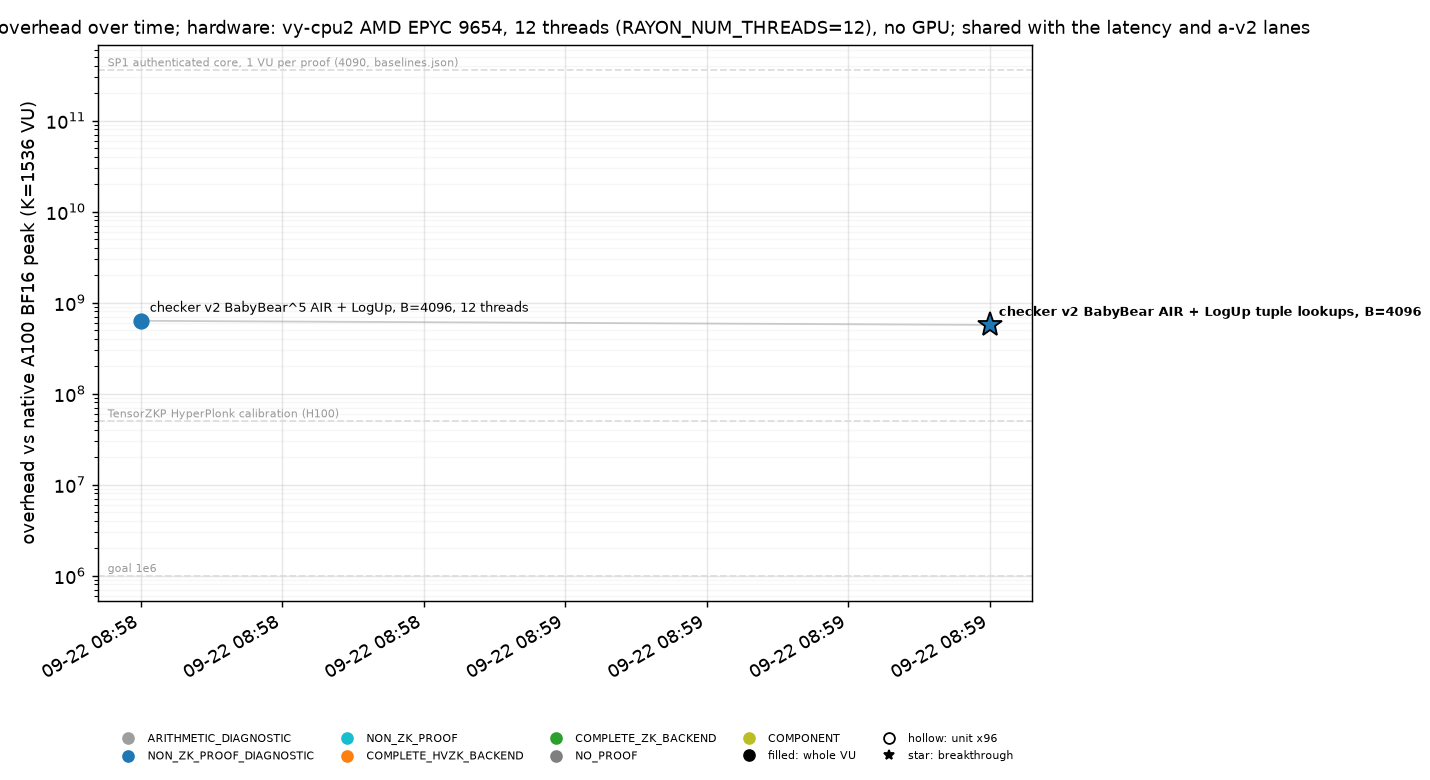
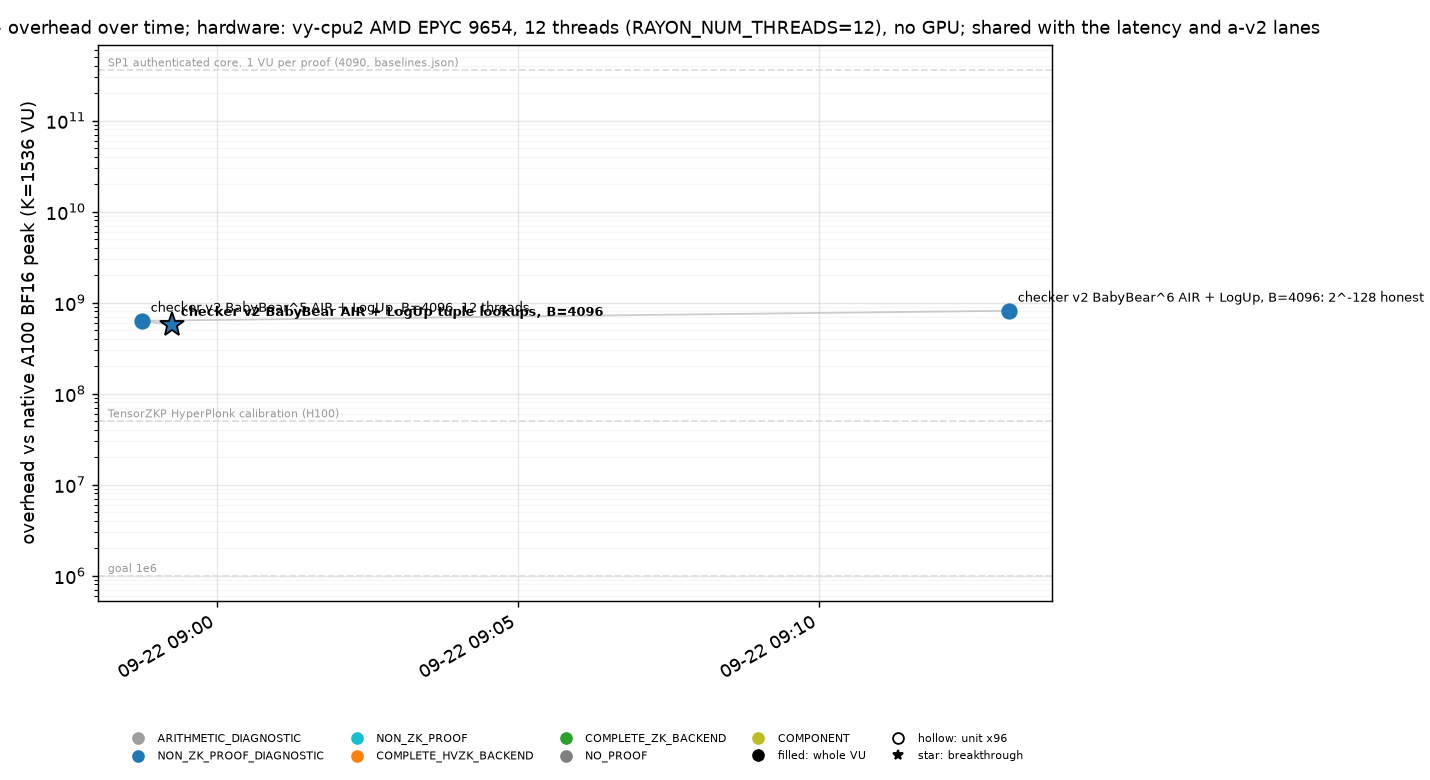
b-air-v2: BabyBear^6 gate (r20260922-090904-cd75): 32.8 s, 463 cols, 177.8 kB/VU, honest label 2^-128.6 (FRI binds; lookup 2^-156.7) -- 1.83x faster / 1.86x smaller than v1+LogUp at 2^-93.8; ledger, plots, PROTOCOL 15.4/15.5/15.7, README

diff --git a/backends/direct/PROTOCOL.md b/backends/direct/PROTOCOL.md
@@ -841,26 +841,27 @@ because every factor is a residue of an integer in \([0, 780)\) bound by ALIGN4/
 ### 15.4 Measurement (vy-cpu2, 12 threads, shared; \(B = 4096\), \(K = 1536\), 100 FRI queries, PoW 16)
 
 Runs `r20260922-085312-82a9` (BabyBear\(^4\), 166 queries), `r20260922-085547-05cc` (BabyBear\(^5\), 166 queries),
+`r20260922-090904-cd75` (BabyBear\(^6\), 166 queries),
 `r20260922-084854-d988` / `r20260922-085143-6e87` (the same at 100 queries: 22.88 s / 25.44 s, proofs 1.18 / 1.20 MB,
 FRI \(2^{-83.8}\) proven); `results/vu_v2_*.json`.  \(2^{19}\) rows (393 216 real), `log_blowup` 2, Keccak Merkle,
 authentication excluded, `NON_ZK_PROOF_DIAGNOSTIC`; the pod was shared (load average \(\approx 30\) on 32 vCPUs), so
 every time is an upper bound.  The v1 + LogUp columns are section 14.5's (same queries, same pod, same threads).
 
-| | v1 + LogUp, BabyBear\(^4\) | v1 + LogUp, BabyBear\(^5\) | **v2, BabyBear\(^4\)** | **v2, BabyBear\(^5\)** |
-|---|---|---|---|---|
-| committed width | 863 | 977 | **405** | **453** |
-| committed bytes / VU | 331 kB | 375 kB | **155.5 kB** (2.13x less) | **174 kB** (2.16x less) |
-| witness s | 5.4 | 5.9 | **2.37** | 2.38 |
-| prove s | 54.7 | 64.5 | **20.55** | 23.05 |
-| total s | 60.1 | 70.4 | **22.92** | 25.43 |
-| s / VU | 0.0147 | 0.0172 | **0.00560** (2.62x) | 0.00621 (2.77x) |
-| overhead vs native peak | 1.49e9 | 1.75e9 | **5.68e8** | 6.31e8 |
-| verify s | 0.44 | 0.51 | 0.455 | 0.557 |
-| proof MB | 2.27 | 2.37 | 1.95 | 1.99 |
-| sequential depth (rounds) | 26 | 26 | 26 | 26 |
-| peak RSS GB | 9.5 | 10.7 | **4.85** | 5.16 |
-| stages: commit_pre / main / aux_build / aux / quotient / commit_q / open s | 0.31 / 5.46 / 0.56 / 5.87 / 37.07 / 0.58 / 4.08 | 0.33 / 5.35 / 0.66 / 7.35 / 43.98 / 0.70 / 5.27 | 0.36 / 3.87 / 0.18 / 1.76 / **10.76** / 0.57 / 2.60 | 0.38 / 4.03 / 0.23 / 2.20 / 11.46 / 0.67 / 3.72 |
-| soundness: FRI / lookup term | \(2^{-128.6}\) / \(2^{-93.8}\) | \(2^{-128.6}\) / \(2^{-124.8}\) | \(2^{-128.6}\) / **\(2^{-94.9}\)** | \(2^{-128.6}\) / **\(2^{-125.8}\)** |
+| | v1 + LogUp, BabyBear\(^4\) | v1 + LogUp, BabyBear\(^5\) | **v2, BabyBear\(^4\)** | **v2, BabyBear\(^5\)** | **v2, BabyBear\(^6\)** (15.5) |
+|---|---|---|---|---|---|
+| committed width | 863 | 977 | **405** | **453** | 463 |
+| committed bytes / VU | 331 kB | 375 kB | **155.5 kB** (2.13x less) | **174 kB** (2.16x less) | 177.8 kB (1.86x less) |
+| witness s | 5.4 | 5.9 | **2.37** | 2.38 | 2.39 |
+| prove s | 54.7 | 64.5 | **20.55** | 23.05 | 30.41 |
+| total s | 60.1 | 70.4 | **22.92** | 25.43 | 32.80 |
+| s / VU | 0.0147 | 0.0172 | **0.00560** (2.62x) | 0.00621 (2.77x) | 0.00801 (1.83x) |
+| overhead vs native peak | 1.49e9 | 1.75e9 | **5.68e8** | 6.31e8 | 8.13e8 |
+| verify s | 0.44 | 0.51 | 0.455 | 0.557 | 0.731 |
+| proof MB | 2.27 | 2.37 | 1.95 | 1.99 | 2.03 |
+| sequential depth (rounds) | 26 | 26 | 26 | 26 | 26 |
+| peak RSS GB | 9.5 | 10.7 | **4.85** | 5.16 | 5.47 |
+| stages: commit_pre / main / aux_build / aux / quotient / commit_q / open s | 0.31 / 5.46 / 0.56 / 5.87 / 37.07 / 0.58 / 4.08 | 0.33 / 5.35 / 0.66 / 7.35 / 43.98 / 0.70 / 5.27 | 0.36 / 3.87 / 0.18 / 1.76 / **10.76** / 0.57 / 2.60 | 0.38 / 4.03 / 0.23 / 2.20 / 11.46 / 0.67 / 3.72 | 0.37 / 4.07 / 0.33 / 2.47 / 15.19 / 0.76 / 6.68 |
+| soundness: FRI / lookup term | \(2^{-128.6}\) / \(2^{-93.8}\) | \(2^{-128.6}\) / \(2^{-124.8}\) | \(2^{-128.6}\) / **\(2^{-94.9}\)** | \(2^{-128.6}\) / **\(2^{-125.8}\)** | **\(2^{-128.6}\)** / \(2^{-156.7}\) |
 
 Both breakthrough criteria are met (s/VU 2.62x better than 0.0147, > 1.5x; committed bytes/VU 2.13x under 331 kB,
 > 2x).  Where the time went: the quotient pass fell 3.4x (37.1 to 10.8 s: 88 program constraints instead of 402,
@@ -885,7 +886,18 @@ The honest label of a v2 proof is the minimum of the two: **\(2^{-94.9}\) at Bab
 instead).  \(2^{-128}\) needs BabyBear\(^6\)
 (not in Plonky3 0.4.3) *and* 166 queries; BabyBear\(^5\) at 166 queries gives \(2^{-125.8}\) -- the same conclusion as
 section 14.2; with 3.7x fewer lookups the v2 term is 1.5 bits better at each degree, not enough to change it.
-BabyBear\(^6\) was not implemented in this lane (section 15.6).
+**BabyBear\(^6\) is implemented** (the brief's item 6): Plonky3 0.4.3 has binomial extensions of BabyBear of degree
+4 and 5 only, so `vendor/p3-baby-bear` is the registry crate (`[patch.crates-io]`) plus `BinomiallyExtendable<6>` /
+`HasTwoAdicBionmialExtension<6>` over \(X^6 - 22\): 22 is neither a square nor a cube mod \(p\) (the irreducibility
+criterion for \(X^6 - w\) when \(4 \nmid 6\)), \(X^{p^k} \ne X\) for \(k = 1, 2, 3\); the multiplicative generator
+\(6 + X\) has order \(p^6 - 1 = 2^{28} \cdot 3^2 \cdot 5 \cdot 7^3 \cdot 13 \cdot 31 \cdot 1171 \cdot 7459 \cdot 103237
+\cdot 345769 \cdot 32472031 \cdot 3939008426310247\) (checked against every prime factor); 2-adicity 28 with the
+sparse generator \(22^7 X^3\).  `tests/air_v2.rs::babybear6_field` checks the axioms, inverses, \(x^{p^6} = x\) (and
+\(\ne\) for smaller powers), the orders.  `BabyBear6Backend`, `vu-bench --v2 --ext 6`: **32.80 s, 463 committed
+columns, 177.8 kB/VU, label \(2^{-128.6}\)** (FRI binds; lookup \(2^{-156.7}\)) -- the first honest \(2^{-128}\) of
+the B AIR at \(2^{19}\) rows, 1.83x faster and 1.86x smaller than v1 + LogUp at its \(2^{-93.8}\).  The 43% over
+v2\(^4\) is the generic degree-6 extension multiplication (`BinomialExtensionField` specialises D = 2, 3 only):
+quotient 15.2 vs 10.8 s, `open` 6.7 vs 2.6 s -- a Karatsuba/Toom sextic multiplication would recover most of it.
 
 Statement binding (red-team F1-F3): `absorb_header` puts the domain tag, the AIR id (hash of field, layout and
 constraint names), \(B\), \(K\), 96, `degree_bits`, the FRI parameters and every claimed word (and the operands when
@@ -916,12 +928,10 @@ recomputation in the verifier, the \(2^{19}\)-row floor -- are the items below.
 
 ### 15.7 Open
 
-* **BabyBear\(^6\)** (the brief's item 6): not done.  Plonky3 0.4.3's `BinomialExtensionField<BabyBear, D>` is
-  implemented for D = 4, 5 only; a degree-6 extension needs a `BinomiallyExtendable<6>` impl (irreducible
-  \(X^6 - w\); `backends/gkr/src/field.rs` has a hand-rolled BabyBear\(^6\) with its polynomial) plus the
-  `TwoAdicField`/`HasFrobenius` plumbing uni-stark's challenger and PCS need.  Expected cost from the \(^4 \to ^5\)
-  step: aux width 174, quotient +7%, \(\approx 28\) s total, label \(2^{-128.6}\) (FRI) -- the first honest
-  \(2^{-128}\) at \(2^{19}\) rows.
+* **BabyBear\(^6\) multiplication**: the vendored extension uses Plonky3's generic \(D\)-loop product; the 43%
+  over \(^4\) (section 15.5) is mostly that.  A specialised sextic product (Karatsuba over the cubic split, or
+  Toom-3) in the vendored crate is the obvious next 20%.  The vendored crate is a patch of 0.4.3-succinct only;
+  upstream Plonky3 gained more extension degrees later and the patch should be dropped when the crate is bumped.
 * **Operand authentication**: `--bind-operands` absorbs the operand arrays into the header and checks the 32 operand
   columns at \(\zeta\); it was implemented and is exercised by `vu-bench --v2 --bind-operands` but not measured
   in the table (the verifier's statement polynomial then has \(32 \times 2^{19}\) coefficients: a hash-chain

diff --git a/backends/direct/README.md b/backends/direct/README.md
@@ -44,6 +44,8 @@ PCS of `PROTOCOL.md`: it is the fastest complete non-ZK proof of the *right* con
   `vu-honest`, `vu-bench`, `check-rows` (`--ext 5` for BabyBear^5); `run_v2.sh` is the pod script;
   `tests/air_v2.rs` the tests (exhaustive evaluation of every constraint on the honest committed trace, mutations,
   the pod-sized statement-bound round trip); `tools/battery_adapter.py --v2` the battery translated to v2.
+- `vendor/p3-baby-bear`: Plonky3 0.4.3's crate with BabyBear^6 added (`BinomiallyExtendable<6>` over X^6 - 22,
+  PROTOCOL.md 15.5; `[patch.crates-io]` in `Cargo.toml`); `BabyBear6Backend`, `--ext 6`.
 - `run_vu.sh`: the pod script (build, `cargo test`, `chain-layout`, `vu-neg`, battery, `vu-bench`);
   `run_lookup.sh`: the same for the LogUp realisation (`tests/lookup.rs` incl. the 2^17-row round trip, battery
   `--lookup`, `vu-bench --lookup`).
@@ -132,6 +134,7 @@ r20260922-055326-699d (Goldilocks), r20260922-055900-f53a (BabyBear), r20260922-
 | BabyBear, 166 queries (2^-128 proven) | r20260922-060503-6847 | 2,900 | 21.22 | 146.90 | **168.12** | **0.0410** | 0.425 | 3,453,676 | 24 | 30.6 GB | 1.11 MB | 128.6 / 348 |
 | BabyBear, **checker v2** + LogUp tuple lookups, BabyBear^4, 166 queries (`vu-bench --v2`, PROTOCOL.md 15) | r20260922-085312-82a9 | 281 main + 116 aux + 8 pre = **405** | 2.37 | 20.55 | **22.92** | **0.00560** | 0.455 | 1,948,324 | 26 | 4.85 GB | 38,880 cells, **155.5 kB** | 128.6 / 348; lookup term **2^-94.9** |
 | BabyBear, checker v2 + LogUp, BabyBear^5, 166 queries (`--ext 5`) | r20260922-085547-05cc | 281 + 145 + 8 = 453 | 2.38 | 23.05 | 25.43 | 0.00621 | 0.557 | 1,987,400 | 26 | 5.16 GB | 43,488 cells, 174 kB | 128.6 / 348; lookup term 2^-125.8 |
+| BabyBear, checker v2 + LogUp, **BabyBear^6** (`--ext 6`, vendored extension), 166 queries: **honest 2^-128.6** | r20260922-090904-cd75 | 281 + 174 + 8 = 463 | 2.39 | 30.41 | 32.80 | 0.00801 | 0.731 | 2,026,972 | 26 | 5.47 GB | 44,448 cells, 177.8 kB | **128.6** / 348; lookup term 2^-156.7 |
 
 Trace: 2^19 rows (393,216 real + zero-VU padding) x width. `overhead.vs_native_peak` (t.total / 4096 over 9.85 ps):
 **4.53e9** (Goldilocks), **4.24e9** (BabyBear). Ledger: `backends/reports/ledger/b-chain.jsonl`.
